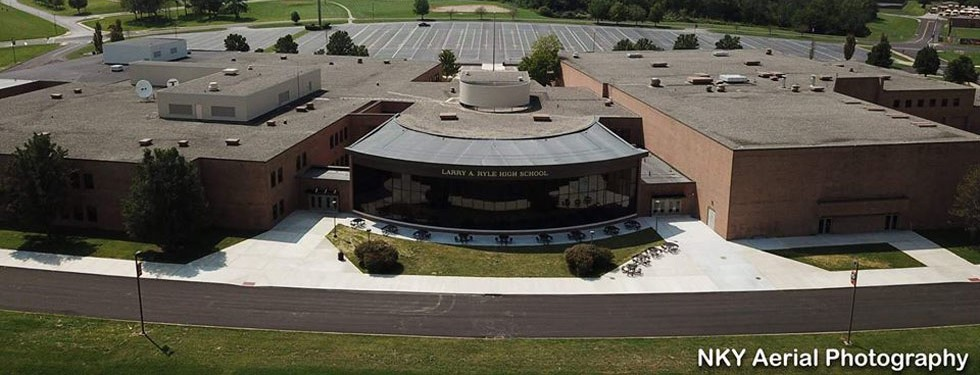
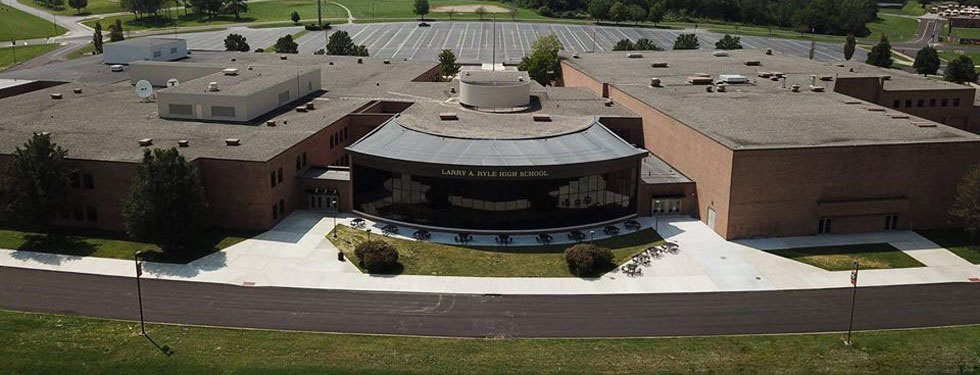
Added Colors And Style
Reworked sidebar class, added colors and reworked an image

Changed region(s): [[0.7041, 0.9093, 1.0, 0.9973]]

diff --git a/HTML/Index.html b/HTML/Index.html
@@ -8,12 +8,12 @@
 		
 	</head>
 	
-	<body>
-		<div style="width: 1280px; height: 768px; border: 1px solid black;">
+	<body style="background-color: #adadad;">
+		<div style="width: 1280px; height: 768px; border: 1px solid black; background-color: #999999;">
 		
-			<div class="bordered-div" style="height: 100%; width: 250px; float: left; border: 1px black; border-style: none solid; border-bottom: clear; margin-left: 20px;" align="center">
+			<div class="bordered-div" style="height: 100%; width: 250px; float: left; margin-left: 20px; background-color: #ff9900;" align="center">
 			
-				<div style="width:250px; padding: 1px; background-image: url(Images/RHSAerial.jpg); background-size: 248px 135px; background-repeat: no-repeat; pointer-events: none;">
+				<div style="width:250px; padding: 1px; background-image: url(Images/RHSAerial.jpg); background-size: 100% 135px; background-repeat: no-repeat; pointer-events: none;">
 					<p style="font-family: Athletic; font-size: 250%; color: #ff9900;">Ryle Maps</p>
 				</div>
 				
@@ -31,10 +31,20 @@
 					</form>
 				</div>
 		
-				<div class="sidebar">
-					<p class="sidebar">Room 101<br/>Mrs.Stropko</p>
-					<a href="https://www.boone.kyschools.us/olc/872">Teacher Website</a><br/>
-					<a href="mailto:jennifer.stropko@boone.kyschools.us">Teacher Email</a>
+				<div id="ToRoomInfo" class="sidebar">
+					<p id="ToRoomRNumber">Room 101</p>
+					<p id="ToRoomTeacher">Mrs.Stropko</p>
+					
+					<a id="ToRoomWebsite" href="https://www.boone.kyschools.us/olc/872">Teacher Website</a><br/>
+					<a id="ToRoomEmail" href="mailto:jennifer.stropko@boone.kyschools.us">Teacher Email</a>
+				</div>
+				
+				<div id="FromRoomInfo" class="sidebar">
+					<p id="FromRoomRNumber">Room 101</p>
+					<p id="FromRoomTeacher">Mrs.Stropko</p>
+					
+					<a id="FromRoomWebsite" href="https://www.boone.kyschools.us/olc/872">Teacher Website</a><br/>
+					<a id="FromRoomEmail" href="mailto:jennifer.stropko@boone.kyschools.us">Teacher Email</a>
 				</div>
 				
 			</div>

diff --git a/HTML/Styles/Style.css b/HTML/Styles/Style.css
@@ -31,6 +31,13 @@
 	margin: 10px 0px;
 	font-family: Asimov;
 	text-align: left;
+	border: 1px solid black;
+	border-left: none;
+	border-right: none;
+}
+
+.sidebar p {
+	line-height: 30%
 }
 		
 		
